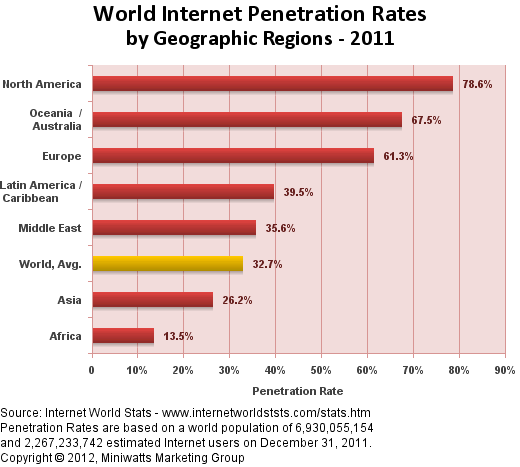
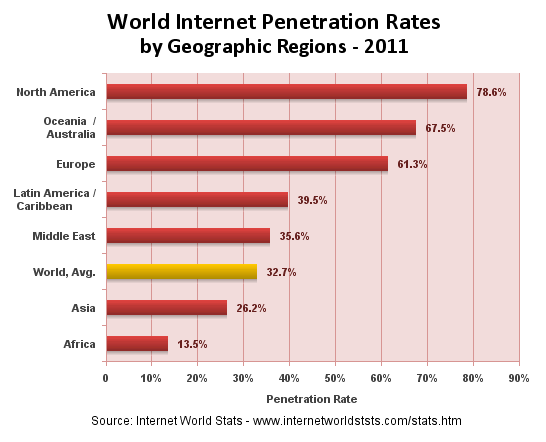
Updated pres.

diff --git a/index.html b/index.html
@@ -30,7 +30,7 @@
     
         window.less = {
             env: "development", // or "production"
-            poll: 500         // when in watch mode, time in ms between polls
+            poll: 1500         // when in watch mode, time in ms between polls
         };
 
         if (!edit_mode) {
@@ -68,30 +68,30 @@
         </div>
     </div>
 
-    <div id="spinning-globe" class="step" data-x="1110" data-y="1078" data-group="globe">
+    <div id="spinning-globe" class="step" data-x="1153" data-y="1103" data-group="globe">
         <div style="text-align: center; height: 100%;">
             <img src="images/earth_at_night_slow.gif" style="position: absolute; top: -10px; left: 500px;" width="700">
         </div>
     </div>
-        <div id="globe-internet" class="step" data-x="1234.4245021366708" data-y="994.6459642857681" data-rotate="89" data-group="internet" data-scale="1.2017500000000003">
+        <div id="globe-internet" class="step" data-x="1210.3772515249038" data-y="996.8315290884451" data-rotate="89" data-group="internet" data-scale="1.1777150000000003">
         <div style="text-align: center;">
             <img src="images/internet-opte.org-map-smaller.png" width="540">
         </div>
     </div>
 
-    <div id="man-in-the-net" class="step hidden" data-x="1220" data-y="991" data-rotate="89" data-scale="0.05" data-group="internet">
+    <div id="man-in-the-net" class="step hidden" data-x="1220" data-y="991" data-rotate="89" data-scale="0.03" data-group="internet">
         <div>
-            <img src="images/man-in-the-net.jpg" style="width: 1000px; margin-left: -100px; opacity: 0.75;">
+            <img src="images/man-in-the-net.jpg" style="width: 100%; margin-top: 100px; opacity: 0.75;">
         </div>
     </div>
     
     <div id="mission" class="step hidden" data-x="1498" data-y="846" data-scale="0.05">
 
-        <div class="slide" style="margin-top: -200px;">
+        <div class="slide">
             
             <img id="about-vertical-logo" src="images/khan-logo-vertical-transparent.png" style="float: left; padding: 10px 35px 50px 0; margin-left: -30px;" width="160">
 
-            <div style="text-align: center; float: left; width: 730px; margin-top: 40px;">
+            <div style="text-align: center; float: left; width: 750px; margin-top: 40px;">
 
                 <div>
                     <h2 class="main-headline" style="white-space: pre; font-size: 32px; margin-bottom: 22px; font-weight: bold;">"A free world-class education for <span class="emphasize">anyone anywhere</span>."</h2>
@@ -112,7 +112,7 @@
             <div>
                 
                 <div style="font-weight: bold; margin-top: 40px;">
-                    Amazing successes from an awesome, dedicated team at KA!
+                    Amazing successes from an awesome, dedicated team at Khan Academy!
                 </div>
 
                 <div style="padding-top: 50px;">
@@ -131,7 +131,19 @@
     <div id="globe-fringe-zoom" class="step" data-x="1642.425096745013" data-y="810.2907756741936" data-scale="0.18052499999999996" data-rotate="83" data-group="internet" data-background="black">
         <!-- TODO: insert "on the fringe" text/image here? -->                
     </div>
+    
+    <div id="internet-stats" class="step" data-y="300" data-x="1400" data-scale="0.2" data-background="white" data-group="stats">
+        <img src="images/world2011pr.png" height="100%">
+    </div>
 
+    <div id="internet-stats-correlation" class="step" data-y="150" data-x="1400" data-scale="0.05" data-group="stats">
+        <img src="images/student-teacher-ratio-vs-internet-users.png" width="100%">
+    </div>
+    
+    <div id="ka-lite-intro" class="step" data-y="0" data-x="1400" data-scale="0.05" data-group="stats">
+        <h1>Only 35% of the world has internet.</h1>
+        <h1>100% of the world needs education.</h1>
+    </div>
 
     <div id="overview" class="step" data-x="0" data-y="0" data-scale="3"></div>
 
@@ -168,8 +180,9 @@
             $group_elements.addClass("current").removeClass("later earlier");
             $(event.target).prevAll().not($group_elements).addClass("earlier").removeClass("later current");
             $(event.target).nextAll().not($group_elements).addClass("later").removeClass("earlier current");
-            if ($(event.target).data("background")) {
-                $("body").animate({backgroundColor: $(event.target).data("background")}, 1000);
+            var background = $(event.target).data("background") || "white";
+            if ($("body").css("background") != background) {
+                $("body").animate({backgroundColor: background}, 1000);
             }
         });
 

diff --git a/css/presentation.less b/css/presentation.less
@@ -6,10 +6,9 @@ body {
 
 .step {
     position: relative;
-    width: 1100px;
-    height: 850px;
+    width: 1200px;
+    height: 900px;
     padding: 30px;
-    margin: 10px auto;
 
     .box-sizing(border-box);
 
